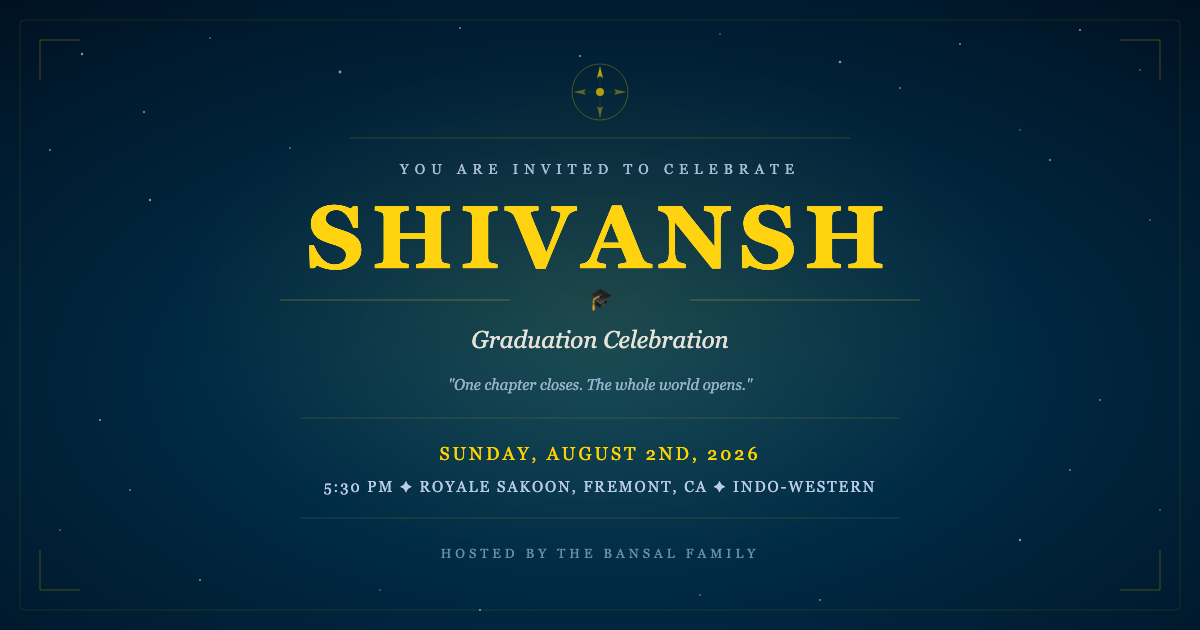
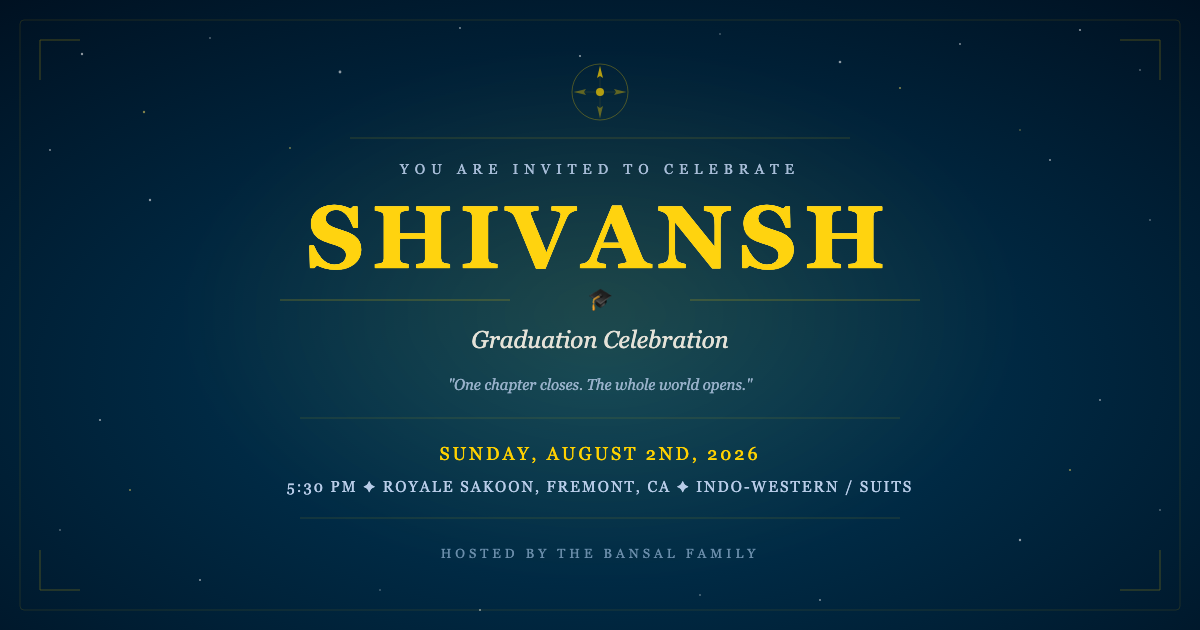
Add Suits to dress code everywhere — invite, email, OG image, calendar

Changed region(s): [[0.2467, 0.754, 0.7708, 0.7841]]

diff --git a/index.html b/index.html
@@ -6,7 +6,7 @@
 <title>Shivansh's Graduation Party — The World Awaits</title>
 <meta property="og:type" content="website">
 <meta property="og:title" content="Shivansh's Graduation Party — The World Awaits">
-<meta property="og:description" content="Join us to celebrate Shivansh Bansal's graduation. Sunday, August 2nd, 2026 · 5:30 PM · Royale Sakoon, Fremont, CA · Dress code: Indo-Western. Kindly RSVP by July 20th.">
+<meta property="og:description" content="Join us to celebrate Shivansh Bansal's graduation. Sunday, August 2nd, 2026 · 5:30 PM · Royale Sakoon, Fremont, CA · Dress code: Indo-Western / Suits. Kindly RSVP by July 20th.">
 <meta property="og:image" content="https://grad-invitation-git-main-shivanshs-projects-fb5dfc58.vercel.app/og-image.png">
 <meta property="og:image:width" content="1200">
 <meta property="og:image:height" content="630">
@@ -776,7 +776,7 @@ select option{background:var(--navy-mid);color:var(--text);}
         <div class="detail-card">
           <span class="detail-icon">👗</span>
           <div class="detail-label">Attire</div>
-          <div class="detail-value">Indo-Western</div>
+          <div class="detail-value">Indo-Western / Suits</div>
         </div>
         <a class="detail-card"
            href="https://maps.google.com/?q=Royale+Sakoon+5200+Mowry+Ave+Suite+K+Fremont+CA+94538"
@@ -983,7 +983,7 @@ select option{background:var(--navy-mid);color:var(--text);}
              'DTSTART:20260802T173000',
              'DTEND:20260802T230000',
              "SUMMARY:Shivansh's Graduation Party — The World Awaits",
-             'DESCRIPTION:Join us to celebrate Shivansh Bansal\'s graduation! Dress code: Indo-Western. Hosted by Sanjeev\\, Pooja & Shanaya Bansal.',
+             'DESCRIPTION:Join us to celebrate Shivansh Bansal\'s graduation! Dress code: Indo-Western / Suits. Hosted by Sanjeev\\, Pooja & Shanaya Bansal.',
              'LOCATION:Royale Sakoon\\, 5200 Mowry Ave Suite K\\, Fremont\\, CA 94538',
              'END:VEVENT','END:VCALENDAR'
            ].join('\r\n');
@@ -1000,13 +1000,13 @@ select option{background:var(--navy-mid);color:var(--text);}
              '<p style="margin:0 0 8px;font-size:15px;">📅 <strong style="color:#FFD100;">Sunday, August 2nd, 2026</strong></p>' +
              '<p style="margin:0 0 8px;font-size:15px;">🕐 <strong style="color:#FFD100;">5:30 PM Onwards</strong></p>' +
              '<p style="margin:0 0 8px;font-size:15px;">📍 <strong style="color:#FFD100;">Royale Sakoon</strong> — 5200 Mowry Ave Suite K, Fremont, CA 94538</p>' +
-             '<p style="margin:0;font-size:15px;">👗 <strong style="color:#FFD100;">Dress Code:</strong> Indo-Western</p></div>' +
+             '<p style="margin:0;font-size:15px;">👗 <strong style="color:#FFD100;">Dress Code:</strong> Indo-Western / Suits</p></div>' +
              '<p style="font-size:15px;color:#B8CCE8;">A calendar invite is attached — add it so you don\'t miss it!</p>' +
              '<p style="font-size:17px;margin-top:28px;">With Love,<br><strong style="color:#FFD100;">The Bansal Family</strong><br>' +
              '<span style="font-size:14px;color:#B8CCE8;">Sanjeev, Pooja &amp; Shanaya</span></p></div></div>';
            GmailApp.sendEmail(data.email,
              "You're Confirmed! ✦ Shivansh's Graduation Party — Aug 2nd",
-             "Hi " + firstName + ",\n\nYour RSVP is confirmed!\n\nSunday, August 2nd 2026 | 5:30 PM onwards\nRoyale Sakoon, 5200 Mowry Ave Suite K, Fremont, CA 94538\nDress code: Indo-Western\n\nA calendar invite is attached.\n\nWith Love,\nThe Bansal Family",
+             "Hi " + firstName + ",\n\nYour RSVP is confirmed!\n\nSunday, August 2nd 2026 | 5:30 PM onwards\nRoyale Sakoon, 5200 Mowry Ave Suite K, Fremont, CA 94538\nDress code: Indo-Western / Suits\n\nA calendar invite is attached.\n\nWith Love,\nThe Bansal Family",
              { htmlBody: htmlBody, attachments: [icsBlob] });
          } else {
            GmailApp.sendEmail(data.email,
@@ -1341,7 +1341,7 @@ document.getElementById('cal-btn').addEventListener('click', function() {
     'DTSTART:20260802T173000',
     'DTEND:20260802T230000',
     "SUMMARY:Shivansh's Graduation Party — The World Awaits",
-    'DESCRIPTION:Join us to celebrate Shivansh Bansal\'s graduation! Dress code: Indo-Western. Hosted by Sanjeev\\, Pooja & Shanaya Bansal.',
+    'DESCRIPTION:Join us to celebrate Shivansh Bansal\'s graduation! Dress code: Indo-Western / Suits. Hosted by Sanjeev\\, Pooja & Shanaya Bansal.',
     'LOCATION:Royale Sakoon\\, 5200 Mowry Ave Suite K\\, Fremont\\, CA 94538',
     'END:VEVENT','END:VCALENDAR'
   ].join('\r\n');
